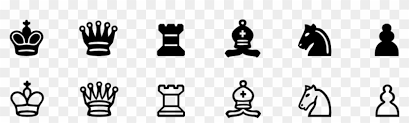
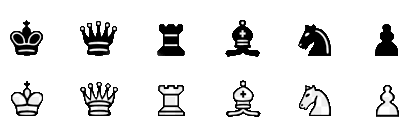
TODO: finish new board version

diff --git a/src/main/java/org/chessgame/view/awt/AWTLayer.java b/src/main/java/org/chessgame/view/awt/AWTLayer.java
@@ -9,13 +9,10 @@ import org.chessgame.view.viewinterface.ILayer;
 import javax.imageio.ImageIO;
 import java.awt.*;
 import java.awt.image.BufferedImage;
-import java.io.FileInputStream;
-import java.io.FileNotFoundException;
 import java.io.IOException;
 import java.util.Objects;
 import java.util.logging.Level;
 
-import static java.awt.Transparency.TRANSLUCENT;
 
 public class AWTLayer implements ILayer {
 
@@ -55,16 +52,17 @@ public class AWTLayer implements ILayer {
 
     @Override
     public void setTexture(String fileName) {
-        if (tileWidth == 0 || tileHeight == 0) {
+        if (this.tileWidth == 0 || this.tileHeight == 0) {
             throw new RuntimeException("Taille des tuiles non définie");
         }
         try {
-            texture = ImageIO.read(Objects.requireNonNull(this.getClass().getClassLoader().getResource(fileName)));
+            this.texture = ImageIO.read(Objects.requireNonNull(this.getClass().getClassLoader().getResource("Pieces/" + fileName)));
+            System.out.println(this.getClass().getClassLoader().getResource(fileName));
         } catch (IOException ex) {
             logger.log(Level.SEVERE, ex.toString());
         }
-        textureWidth = texture.getWidth() / tileWidth;
-        textureHeight = texture.getHeight() / tileHeight;
+        this.textureWidth = this.texture.getWidth() / this.tileWidth;
+        this.textureHeight = this.texture.getHeight() / this.tileHeight;
     }
 
     @Override
@@ -77,40 +75,40 @@ public class AWTLayer implements ILayer {
         if (sprites == null) {
             throw new RuntimeException("Sprites non définis");
         }
-        if (index < 0 || index >= sprites.length) {
+        if (index < 0 || index >= this.sprites.length) {
             throw new IllegalArgumentException("Index sprite " + index + " invalide");
         }
-        if (tileX < 0 || tileX >= textureWidth || tileY < 0 || tileY >= textureHeight) {
+        if (tileX < 0 || tileX >= this.textureWidth || tileY < 0 || tileY >= this.textureHeight) {
             throw new IllegalArgumentException("Coordonnées tuiles " + tileX + "," + tileY + " invalides");
         }
-        sprites[index][0] = tileX;
-        sprites[index][1] = tileY;
+        this.sprites[index][0] = tileX;
+        this.sprites[index][1] = tileY;
     }
 
     @Override
     public void setSpriteLocation(int index, int screenX, int screenY) {
         if (sprites == null || index < 0 || index >= sprites.length)
             return;
-        sprites[index][2] = screenX;
-        sprites[index][3] = screenY;
+        this.sprites[index][2] = screenX;
+        this.sprites[index][3] = screenY;
     }
 
     public void draw(Graphics g) {
-        if (texture == null) {
+        if (this.texture == null) {
             throw new RuntimeException("Texture non chargée");
         }
-        if (sprites == null) {
+        if (this.sprites == null) {
             throw new RuntimeException("Sprites non définis");
         }
-        if (tileWidth == 0 || tileHeight == 0) {
+        if (this.tileWidth == 0 || this.tileHeight == 0) {
             throw new RuntimeException("Taille des tuiles non définie");
         }
-        for (int i = 0; i < sprites.length; i++) {
-            int tileX = sprites[i][0];
-            int tileY = sprites[i][1];
-            int screenX = sprites[i][2];
-            int screenY = sprites[i][3];
-            g.drawImage(texture, screenX, screenY, screenX + tileWidth, screenY + tileHeight, tileX * tileWidth, tileY * tileHeight, tileX * tileWidth + tileWidth, tileY * tileHeight + tileHeight, null);
+        for (int[] sprite : this.sprites) {
+            int tileX = sprite[0];
+            int tileY = sprite[1];
+            int screenX = sprite[2];
+            int screenY = sprite[3];
+            g.drawImage(this.texture, screenX, screenY, screenX + this.tileWidth, screenY + this.tileHeight, tileX * this.tileWidth, tileY * this.tileHeight, tileX * this.tileWidth + this.tileWidth, tileY * this.tileHeight + this.tileHeight, null);
         }
     }
 

diff --git a/src/main/java/org/chessgame/Main.java b/src/main/java/org/chessgame/Main.java
@@ -1,9 +1,13 @@
 package org.chessgame;
 
+import org.chessgame.model.Board;
+import org.chessgame.share.constant.CBoard;
 import org.chessgame.share.services.ChessLogger;
 import org.chessgame.view.awt.AWTGUIFacade;
 import org.chessgame.view.viewinterface.IGUIFacade;
+import org.chessgame.view.viewinterface.ILayer;
 
+import java.awt.*;
 import java.util.logging.Level;
 
 /**
@@ -14,7 +18,9 @@ public class Main implements Runnable {
 
     private static final String APP_TITLE = "chess";
     private IGUIFacade gui;
+    private ILayer charsLayer;
     private static ChessLogger logger = new ChessLogger(Main.class);
+    private final Board board = new Board();
 
     /**
      * @param args the command line arguments
@@ -40,12 +46,36 @@ public class Main implements Runnable {
     }
 
     public void start() {
+        this.init();
         Thread thread = new Thread(this, "Chess_Game");
         thread.start();
     }
 
     private void setGui(IGUIFacade gui) {
         this.gui = gui;
+    }
+
+    private void init() {
+        this.charsLayer = this.gui.createLayer();
+        this.charsLayer.setTileSize(new Dimension(60, 60));
+        this.charsLayer.setTexture("chess_pieces.png");
+        this.charsLayer.setSpriteCount(1);
+        this.charsLayer.setSpriteTexture(0, 1, 1);
+        this.charsLayer.setSpriteLocation(0, 1 * this.charsLayer.getTileWidth(), 4 * this.charsLayer.getTileHeight());
+    }
+
+    private void defineAllSpriteInLayer(String fileName) {
+        ILayer layer = this.gui.createLayer();
+        layer.setTileSize(new Dimension(60, 60));
+        layer.setTexture("chess_pieces.png");
+        layer.setSpriteCount((2 * 5) * 2);
+        for (int j = 0; j < 8; j++) {
+            for (int i = 0; i < 8; i++) {
+                int index = i + j * 8;
+                layer.setSpriteLocation(index, i * CBoard.TILE_WIDTH_PX, j * CBoard.TILE_HEIGHT_PX);
+
+            }
+        }
     }
 
     public void run() {
@@ -86,6 +116,7 @@ public class Main implements Runnable {
         try {
             gui.clearBackground();
             gui.drawBackground();
+            this.gui.drawLayer(this.charsLayer);
         } finally {
             gui.endPaint();
         }

diff --git a/src/main/java/org/chessgame/view/awt/AWTGUIFacade.java b/src/main/java/org/chessgame/view/awt/AWTGUIFacade.java
@@ -2,7 +2,6 @@ package org.chessgame.view.awt;
 
 import org.chessgame.share.constant.CBoard;
 import org.chessgame.share.constant.CWindow;
-import org.chessgame.view.awt.component.BoardComponent;
 import org.chessgame.view.awt.graphics.CaseBoard;
 import org.chessgame.view.viewinterface.IGUIFacade;
 import org.chessgame.view.viewinterface.ILayer;
@@ -13,7 +12,6 @@ public class AWTGUIFacade implements IGUIFacade {
 
     private Graphics g;
     private GameMonitor monitor;
-    private ILayer layer;
 
 
     @Override
@@ -33,14 +31,13 @@ public class AWTGUIFacade implements IGUIFacade {
         if (this.g == null) {
             return;
         }
-
-        if (this.layer == null) {
+        if (layer == null) {
             throw new IllegalArgumentException("pas de layer");
         }
-        if (!(this.layer instanceof AWTLayer)) {
+        if (!(layer instanceof AWTLayer)) {
             throw new IllegalArgumentException("Type de layer Invalide");
         }
-        AWTLayer awtLayer = (AWTLayer) this.layer;
+        AWTLayer awtLayer = (AWTLayer) layer;
         awtLayer.draw(this.g);
     }
 

diff --git a/src/main/java/org/chessgame/model/Board.java b/src/main/java/org/chessgame/model/Board.java
@@ -8,6 +8,7 @@ import org.chessgame.model.abstract_class.Piece;
 import org.chessgame.share.constant.CBoard;
 import org.chessgame.share.enumeration.EColorChess;
 import org.chessgame.share.constant.CWindow;
+import org.chessgame.share.enumeration.EElement;
 import org.chessgame.share.iterator.BoardIterator;
 import org.chessgame.share.services.ChessLogger;
 
@@ -16,7 +17,15 @@ import java.io.Serializable;
 public class Board implements Iterable<BoardElement>, Serializable {
 
     private static ChessLogger chessLogger = new ChessLogger(Board.class);
-    protected BoardElement[][] boardElement;
+    protected EElement[][] boardElement = {
+            {EElement.BLACK_ROOK, EElement.BLACK_KNIGHT, EElement.BLACK_BISHOP, EElement.BLACK_QUEEN, EElement.BLACK_KING, EElement.BLACK_BISHOP, EE},
+            {},
+            {},
+            {},
+            {},
+            {},
+
+    };
 
     public Board() {
         this.boardElement = new BoardElement[CBoard.TILE_HEIGHT_TAB][CBoard.TILE_WIDTH_TAB];

diff --git a/src/main/java/org/chessgame/share/enumeration/EElement.java b/src/main/java/org/chessgame/share/enumeration/EElement.java
@@ -1,17 +1,23 @@
 package org.chessgame.share.enumeration;
 
 public enum EElement {
-    EMPTY("EMPTY"),
-    PAWN("PAWN"),
-    KING("KING"),
-    QUEEN("QUEEN"),
-    BISHOP("BISHOP"),
-    KNIGHT("KNIGHT"),
-    ROOK("ROOK");
+    EMPTY(0),
+    BLACK_PAWN(1),
+    BLACK_KING(2),
+    BLACK_QUEEN(3),
+    BLACK_BISHOP(4),
+    BLACK_KNIGHT(5),
+    BLACK_ROOK(6),
+    WHITE_PAWN(7),
+    WHITE_KING(8),
+    WHITE_QUEEN(9),
+    WHITE_BISHOP(10),
+    WHITE_KNIGHT(11),
+    WHITE_ROOK(12);
 
     String value;
 
-    EElement(String value) {
+    EElement(int value) {
 
     }
 
